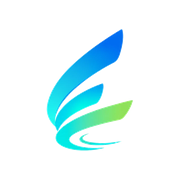
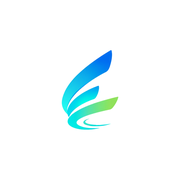
PWA整備: 追加案内(オフ状態で用意)、アイコン調整、オフライン対応、manifestショートカット
Claude-Session: https://claude.ai/code/session_01GABYT29VUZzXrt2vySzu7C

Changed region(s): [[0.25, 0.1389, 0.75, 0.8611]]

diff --git a/public/pwa.js b/public/pwa.js
@@ -1,0 +1,27 @@
+/* ホーム画面への追加の案内(PWA)。サービスワーカーの登録も行う。
+   案内の表示は、独自ドメインへ移ってから有効にする(旧ドメインで追加した人に、追加し直しをさせないため)。
+   有効にするには ENABLE_INSTALL_HINT を true に。動作確認だけなら URL に ?pwa=1 を付ける。 */
+(function () {
+  var ENABLE_INSTALL_HINT = false;
+  if ('serviceWorker' in navigator) navigator.serviceWorker.register('/sw.js').catch(function () {});
+  var standalone = (window.matchMedia && matchMedia('(display-mode: standalone)').matches) || navigator.standalone === true;
+  var force = /[?&]pwa=1/.test(location.search);
+  if (standalone || !(ENABLE_INSTALL_HINT || force)) return;
+  var KEY = 'pwaHintUntil';
+  try { if (!force && Number(localStorage.getItem(KEY)) > Date.now()) return; } catch (e) {}
+  var ios = /iPhone|iPad|iPod/.test(navigator.userAgent), deferred = null;
+  window.addEventListener('beforeinstallprompt', function (e) { e.preventDefault(); deferred = e; show(); });
+  if (ios) setTimeout(show, 2500);
+  var shown = false;
+  function show() {
+    if (shown || document.getElementById('pwaHint')) return; shown = true;
+    var b = document.createElement('div'); b.id = 'pwaHint'; b.setAttribute('role', 'dialog'); b.setAttribute('aria-label', 'ホーム画面に追加');
+    b.innerHTML = '<img src="/icon-192.png" width="40" height="40" alt="" aria-hidden="true"><div class="pwa-t"><b>ホーム画面に追加</b><span>' +
+      (ios ? '共有ボタン <svg viewBox="0 0 24 24" width="14" height="14" fill="none" stroke="currentColor" stroke-width="2" stroke-linecap="round" stroke-linejoin="round" aria-hidden="true"><path d="M12 15V4M8 8l4-4 4 4M5 12v7h14v-7"/></svg> から「ホーム画面に追加」で、アプリのように使えます。通知もこの形で届きます。' : 'アプリのようにすぐ開けて、気圧の通知も受け取れます。') +
+      '</span></div>' + (ios ? '' : '<button type="button" class="pwa-add">追加</button>') + '<button type="button" class="pwa-x" aria-label="閉じる">×</button>';
+    document.body.appendChild(b);
+    var add = b.querySelector('.pwa-add');
+    if (add) add.addEventListener('click', function () { if (deferred) { deferred.prompt(); deferred.userChoice.finally(function () { b.remove(); }); } });
+    b.querySelector('.pwa-x').addEventListener('click', function () { b.remove(); try { localStorage.setItem(KEY, String(Date.now() + 14 * 864e5)); } catch (e) {} });
+  }
+})();

diff --git a/public/sw.js b/public/sw.js
@@ -1,6 +1,7 @@
 // アプリシェルのキャッシュ + FCM(Web Push)の受信
-const CACHE = 'kiatsu-shell-v128';
-const SHELL = ['/app/', '/tokens.css', '/style.css', '/ds.css', '/header.css', '/brand.css', '/dash.css', '/app.js', '/wx.js', '/faces.js', '/manifest.json', '/terms.html', '/hero/hero.js', '/hero/hero.css', '/vendor/chart.js'];
+const CACHE = 'kiatsu-shell-v130';
+const API_OK = ['/api/week', '/api/forecast', '/api/area-stats', '/api/me', '/api/logs', '/api/areas', '/api/config', '/api/insights', '/api/today']; // オフラインでも前回の値を出すAPI(GETのみ)
+const SHELL = ['/app/', '/tokens.css', '/style.css', '/ds.css', '/header.css', '/brand.css', '/dash.css', '/app.js', '/wx.js', '/faces.js', '/manifest.json', '/offline', '/pwa.js', '/terms.html', '/hero/hero.js', '/hero/hero.css', '/vendor/chart.js'];
 
 self.addEventListener('install', (e) => {
   e.waitUntil(caches.open(CACHE).then((c) => c.addAll(SHELL)).then(() => self.skipWaiting()));
@@ -12,16 +13,23 @@ self.addEventListener('activate', (e) => {
 });
 self.addEventListener('fetch', (e) => {
   const url = new URL(e.request.url);
-  if (e.request.method !== 'GET' || url.origin !== location.origin || url.pathname.startsWith('/api/')) return;
-  // network-first（更新を優先し、オフライン時のみキャッシュ）
+  if (e.request.method !== 'GET' || url.origin !== location.origin) return;
+  if (url.pathname.startsWith('/api/') && !API_OK.some((p) => url.pathname === p)) return;
+  // network-first（更新を優先し、オフライン時のみ前回のキャッシュ）。ページは取得できなければ offline.html
+  // 時刻がクエリに入るAPI(/api/logs)は、クエリなしの1件だけを保存して、オフライン時の代わりに使う
+  const key = url.pathname === '/api/logs' ? new Request(url.origin + url.pathname) : e.request;
   e.respondWith(
     fetch(e.request)
       .then((r) => {
-        const copy = r.clone();
-        caches.open(CACHE).then((c) => c.put(e.request, copy));
+        if (r.ok) { const copy = r.clone(); caches.open(CACHE).then((c) => c.put(key, copy)); }
         return r;
       })
-      .catch(() => caches.match(e.request)),
+      .catch(async () => {
+        const hit = await caches.match(key);
+        if (hit) return hit;
+        if (e.request.mode === 'navigate') return (await caches.match('/offline')) || Response.error();
+        return Response.error();
+      }),
   );
 });
 

diff --git a/public/brand.css b/public/brand.css
@@ -331,3 +331,9 @@ body[data-page="weather"] .btn.primary, body[data-page="pressure"] .btn.primary,
 .faq { margin: 28px 0 8px; } .faq h2 { font-size: 18px; margin: 0 0 8px; }
 .faq-i { border: 1px solid var(--color-border); border-radius: 12px; background: var(--color-card); margin: 8px 0; padding: 0 14px; } .faq-i summary { cursor: pointer; padding: 12px 0; font-weight: 700; font-size: 15px; } .faq-i p { margin: 0 0 12px; font-size: 14px; line-height: 1.8; }
 .refs { margin-top: 18px; padding-top: 12px; border-top: 1px dashed var(--color-border); }
+
+/* ホーム画面追加の案内(pwa.js) */
+#pwaHint { position: fixed; left: 12px; right: 12px; bottom: calc(76px + env(safe-area-inset-bottom)); z-index: 60; display: flex; align-items: center; gap: 10px; padding: 10px 12px; border-radius: 16px; background: var(--color-card); border: 1px solid var(--color-border); box-shadow: 0 8px 28px rgba(15, 40, 70, .22); max-width: 520px; margin: 0 auto; }
+#pwaHint img { border-radius: 10px; flex: none; } #pwaHint .pwa-t { flex: 1; font-size: 12px; line-height: 1.5; color: var(--color-ink-muted); } #pwaHint .pwa-t b { display: block; font-size: 14px; color: var(--color-ink); }
+#pwaHint button { border: 0; font: inherit; cursor: pointer; } #pwaHint .pwa-add { background: var(--color-primary); color: #fff; font-weight: 700; padding: 8px 16px; border-radius: 999px; } #pwaHint .pwa-x { background: none; color: var(--color-ink-muted); font-size: 20px; padding: 4px 8px; }
+#offlineBar { position: sticky; top: 0; z-index: 30; background: var(--lv-slight-bg); color: var(--lv-slight-tx); text-align: center; font-size: 12px; padding: 6px 12px; border-bottom: 1px solid var(--lv-slight); }

diff --git a/src/pages.js b/src/pages.js
@@ -133,6 +133,10 @@ ${chrome ? DS_FONTS : TOP_FONTS}
 <link rel="icon" href="/icon-192.png" sizes="192x192" type="image/png">
 <link rel="apple-touch-icon" href="/apple-touch-icon.png">
 <link rel="manifest" href="/manifest.json">
+<meta name="mobile-web-app-capable" content="yes">
+<meta name="apple-mobile-web-app-capable" content="yes">
+<meta name="apple-mobile-web-app-title" content="ウェルミー">
+<meta name="apple-mobile-web-app-status-bar-style" content="default">
 <link rel="stylesheet" href="/tokens.css">
 ${chrome ? '<link rel="stylesheet" href="/ds.css">\n<link rel="stylesheet" href="/header.css">\n' : ''}<link rel="stylesheet" href="/site.css">
 ${chrome ? '<link rel="stylesheet" href="/ds-pages.css">\n' : ''}${extraHead}
@@ -161,6 +165,7 @@ ${chrome ? `<footer class="site-f">
 </footer>` : ''}
 ${chrome && page !== 'app' ? bnav(page) : ''}
 ${chrome ? STREET_SCRIPT : ''}
+<script src="/pwa.js" defer></script>
 ${scripts}
 ${chrome ? '<script src="/faces.js"></script>\n<script src="/actions.js" defer></script>' : ''}
 </body>

diff --git a/public/app.js b/public/app.js
@@ -630,5 +630,14 @@ $('#wipe').addEventListener('click', async () => {
   store.del('uid'); S.tags.clear(); S.meds.clear(); S.pain = null; await boot(true); toast('削除しました');
 });
 
+// オフライン表示: 前回取得した内容を出していることを伝える
+function offlineBar() {
+  let bar = document.getElementById('offlineBar');
+  if (navigator.onLine) { bar?.remove(); return; }
+  if (!bar) { bar = h('div', { id: 'offlineBar', role: 'status' }, 'オフラインです。前回の内容を表示しています（記録の保存はオンラインで）。'); document.body.prepend(bar); }
+}
+window.addEventListener('online', () => { offlineBar(); if (S.view === 'dash') loadDash(); });
+window.addEventListener('offline', offlineBar);
+offlineBar();
 if ('serviceWorker' in navigator) navigator.serviceWorker.register('/sw.js').catch(() => {});
 boot().catch((e) => { console.error(e); toast('起動に失敗しました'); });

diff --git a/public/offline.html b/public/offline.html
@@ -1,0 +1,3 @@
+<!doctype html><html lang="ja"><head><meta charset="utf-8"><meta name="viewport" content="width=device-width,initial-scale=1"><meta name="theme-color" content="#F7FBFD"><title>オフラインです | ウェルミー</title>
+<style>body{margin:0;min-height:100vh;display:flex;align-items:center;justify-content:center;background:#F7FBFD;color:#1F3347;font:16px/1.8 -apple-system,"Hiragino Sans","Noto Sans JP",sans-serif;text-align:center;padding:24px}main{max-width:420px}h1{font-size:20px}a{display:inline-block;margin-top:12px;padding:10px 22px;border-radius:999px;background:#1B7FD6;color:#fff;text-decoration:none;font-weight:700}</style></head>
+<body><main><h1>いまはオフラインです</h1><p>電波の届く場所で、もう一度お試しください。<br>一度開いたページは、オフラインでも前回の内容を見られます。</p><a href="/app/">気圧・記録を開く</a></main></body></html>
